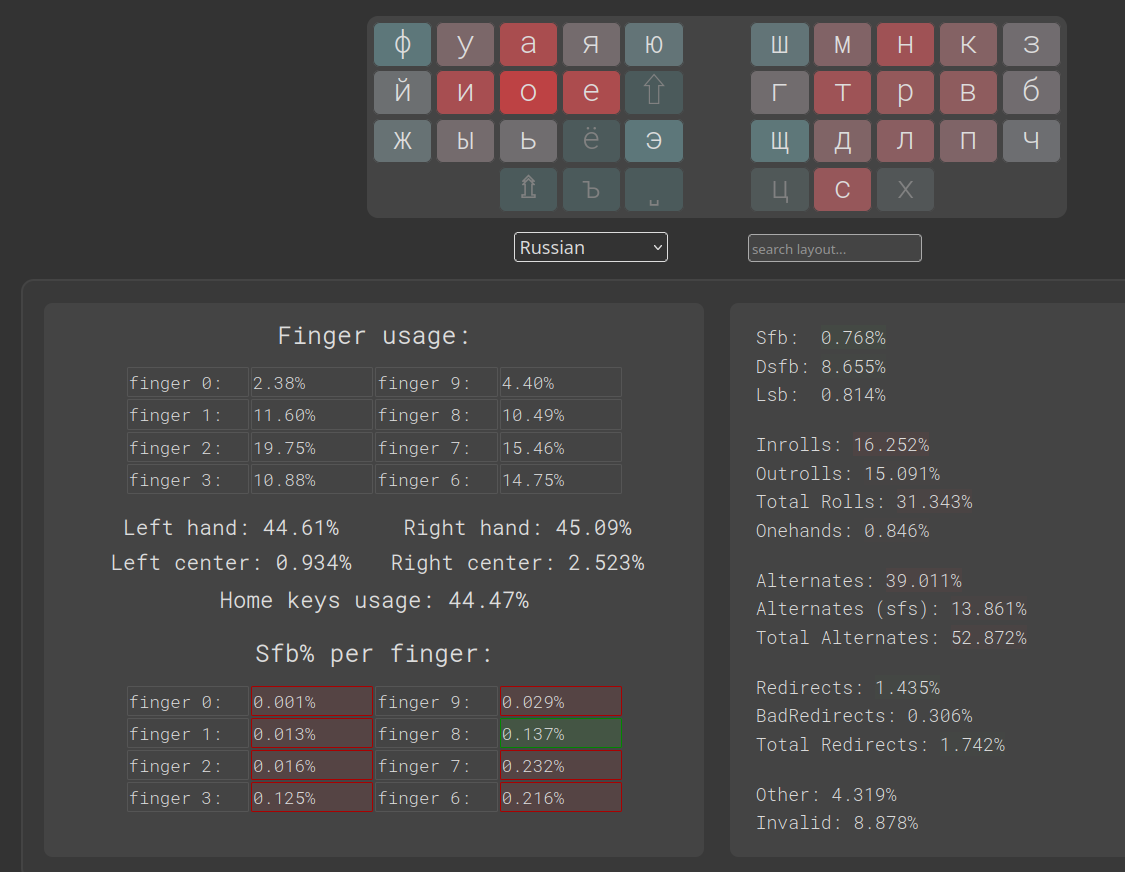
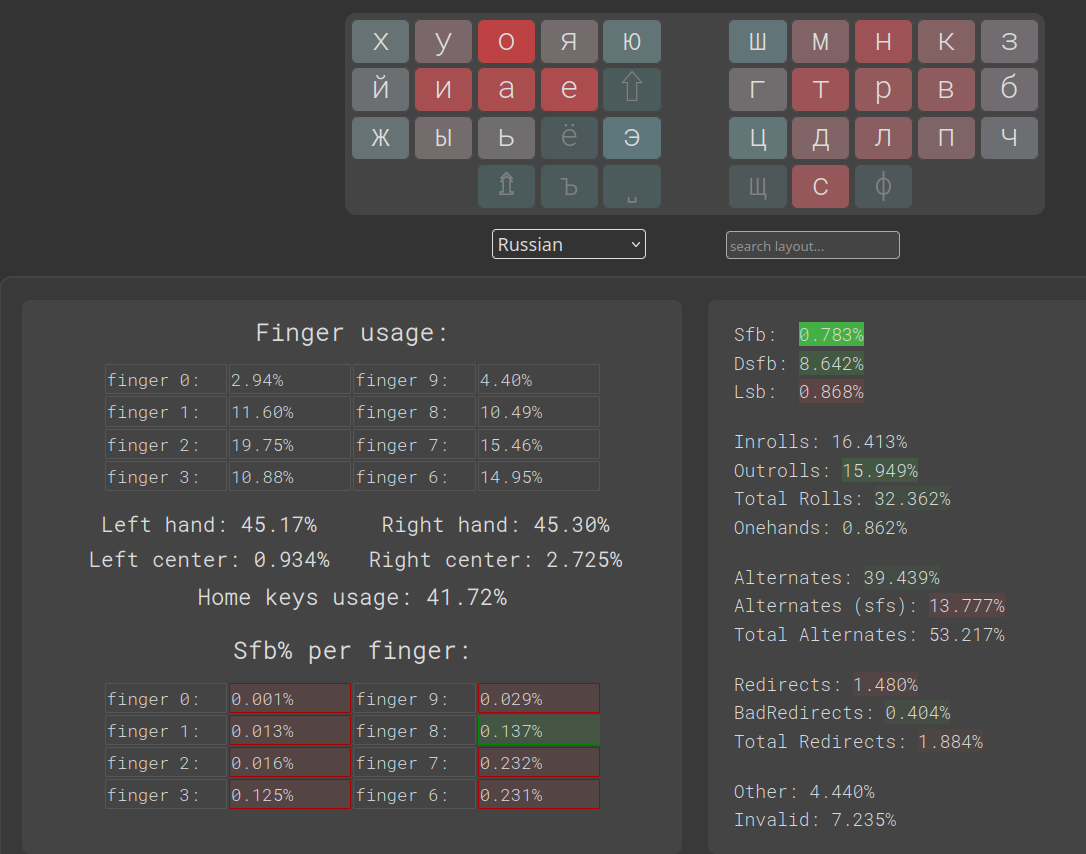
Amend history

diff --git a/README.md b/README.md
@@ -64,6 +64,7 @@
 
 (от новых к старым)
 
-![shamanka-0.9](./images/sh-rev02.png)
-![shamanka-0.5](./images/sh-rev01.png)
+![shamanka-0.9](./images/sh-rev03.png)
+![shamanka-0.5](./images/sh-rev02.png)
+![shamanka-0.3](./images/sh-rev01.png)
 ![shamanka-very-first](./images/sh-rev00.png)